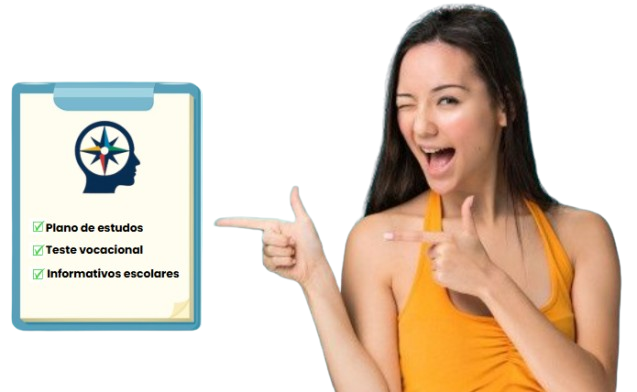
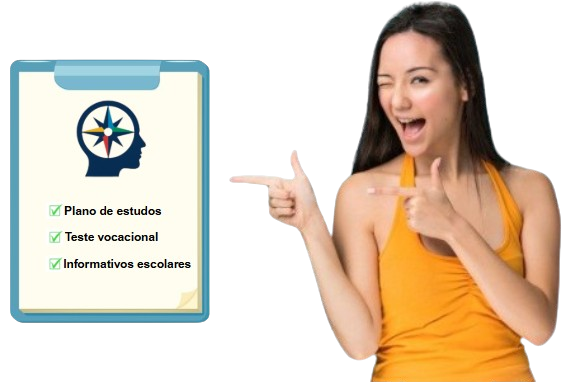
✨ feat: add welcome screen to website

diff --git a/css/style.css b/css/style.css
@@ -311,6 +311,9 @@
 
 .carousel-img {
     width: 120%;
+    mask-image: linear-gradient(to bottom, 
+    rgba(0, 0, 0, 1) 85%, 
+    rgba(0, 0, 0, 0) 100%);
 }
 
 @media (max-width: 991px) {
